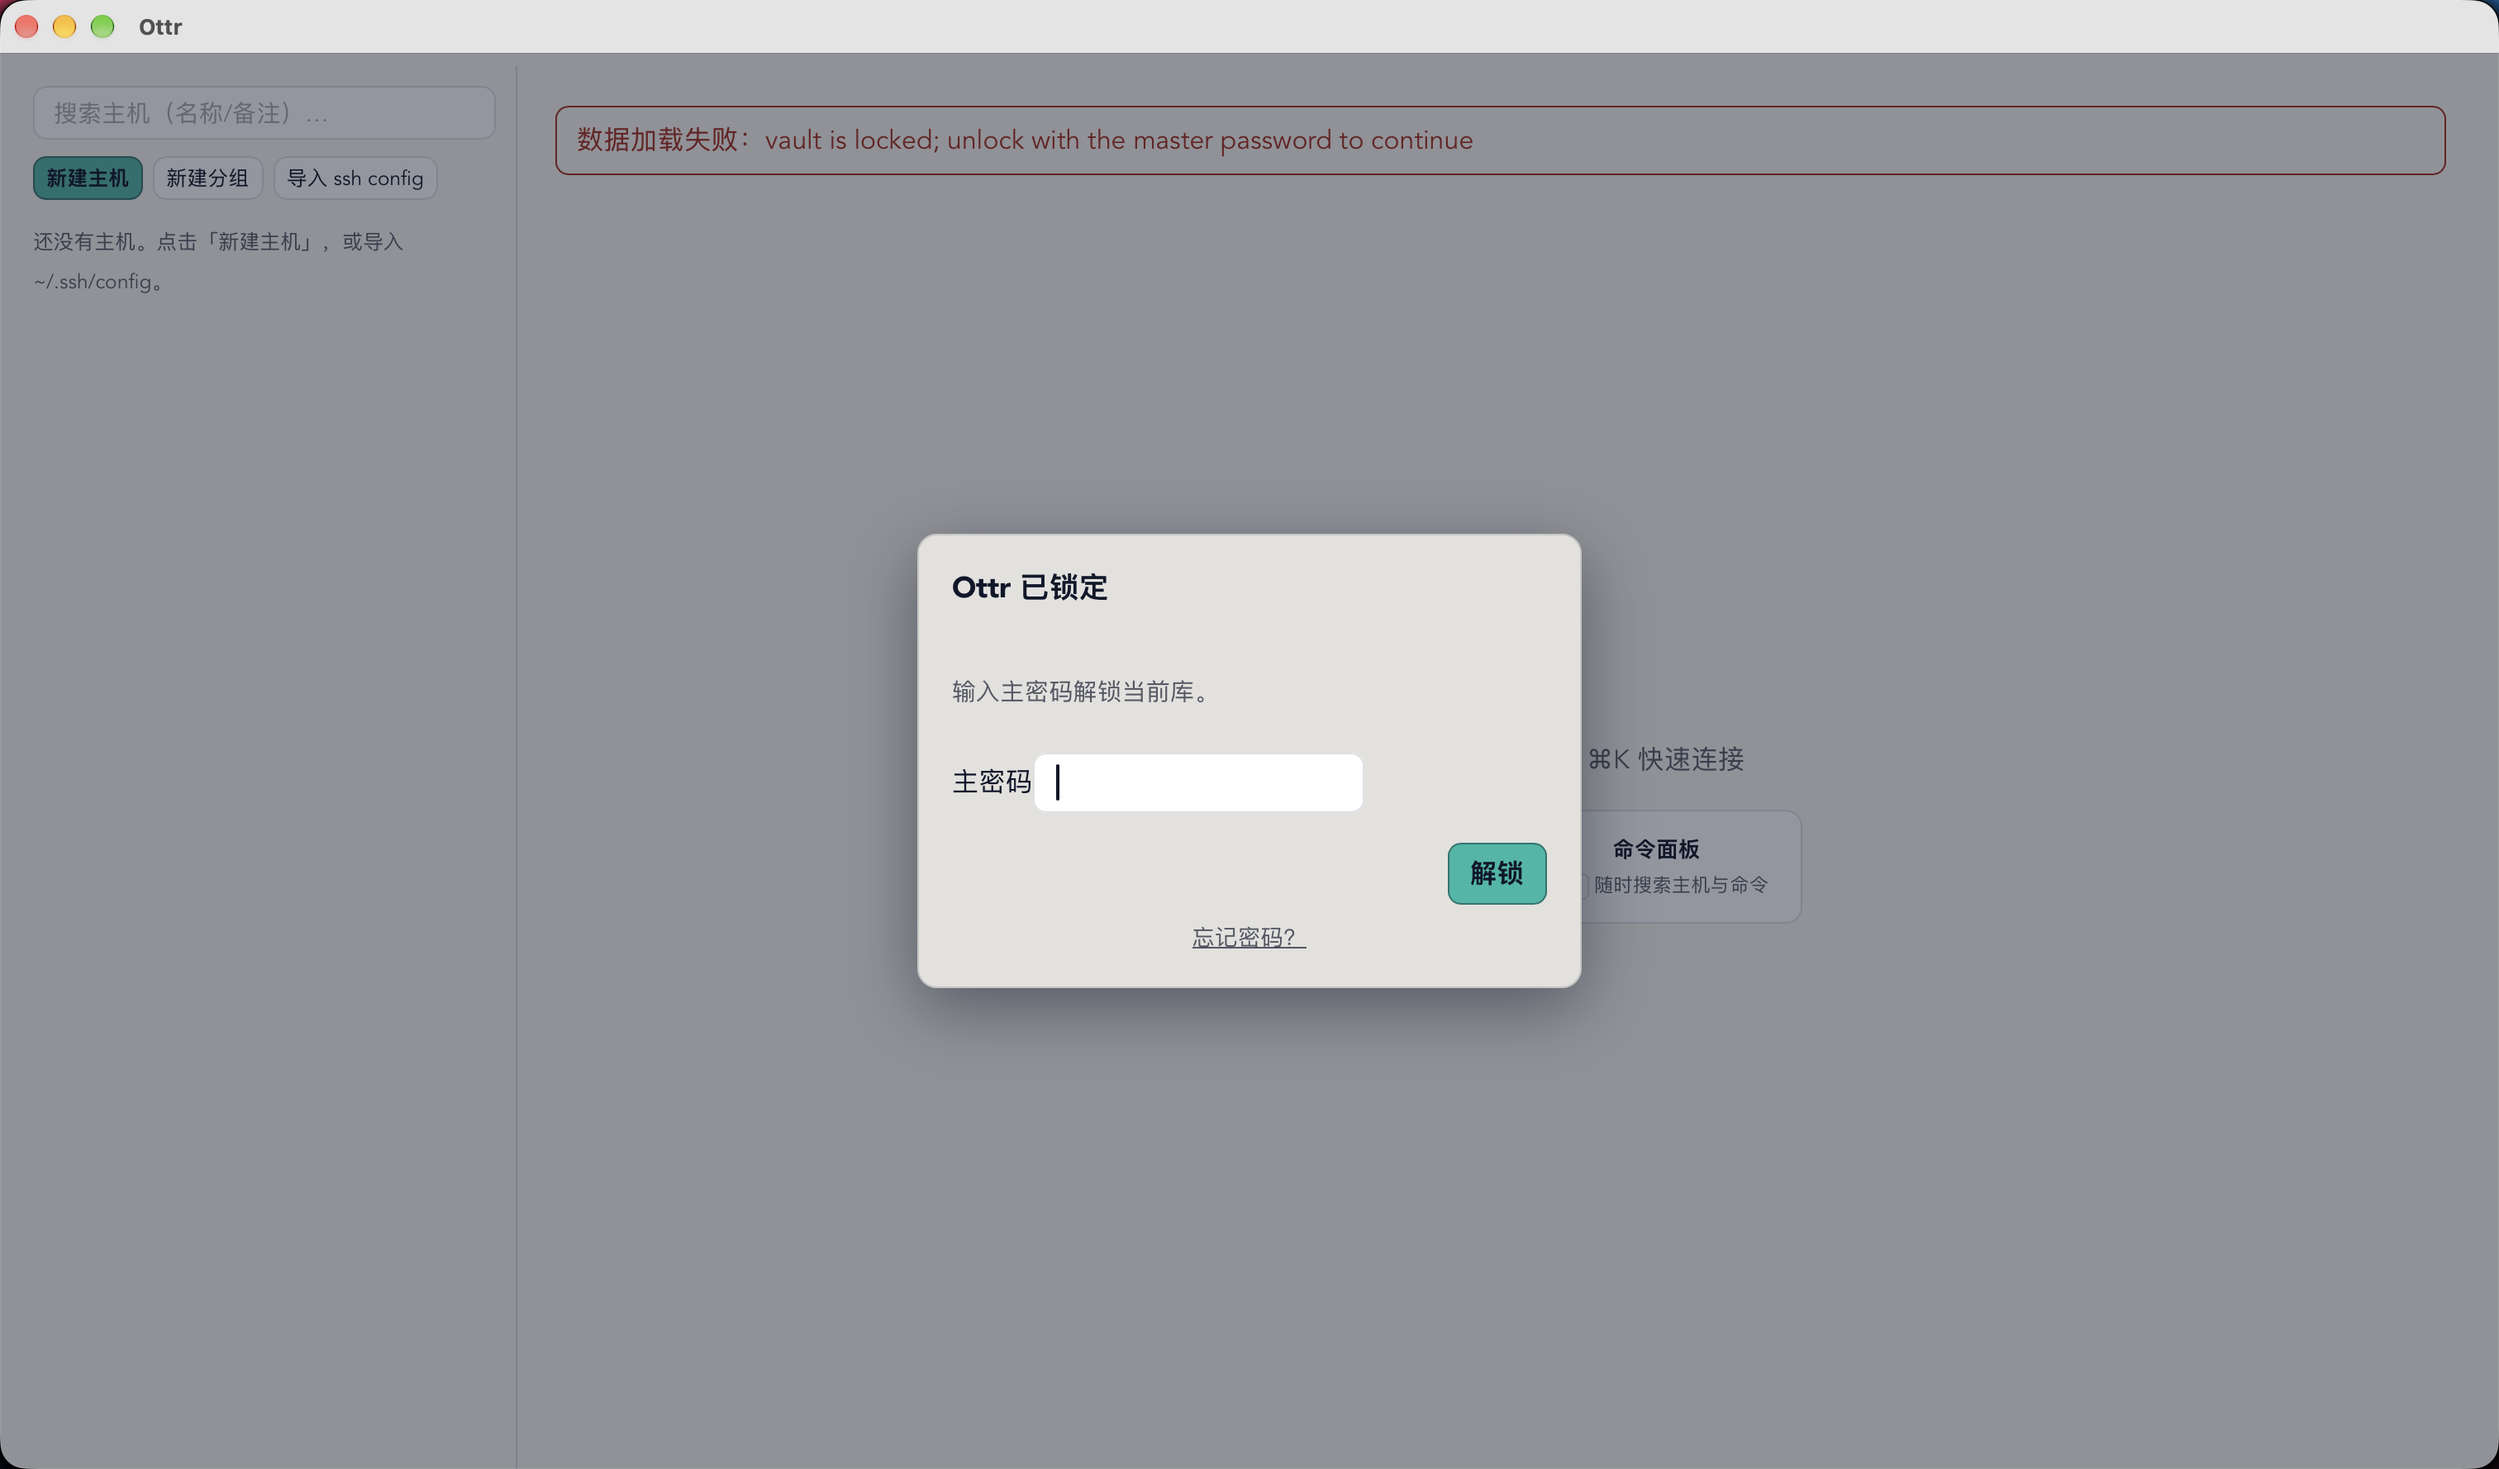
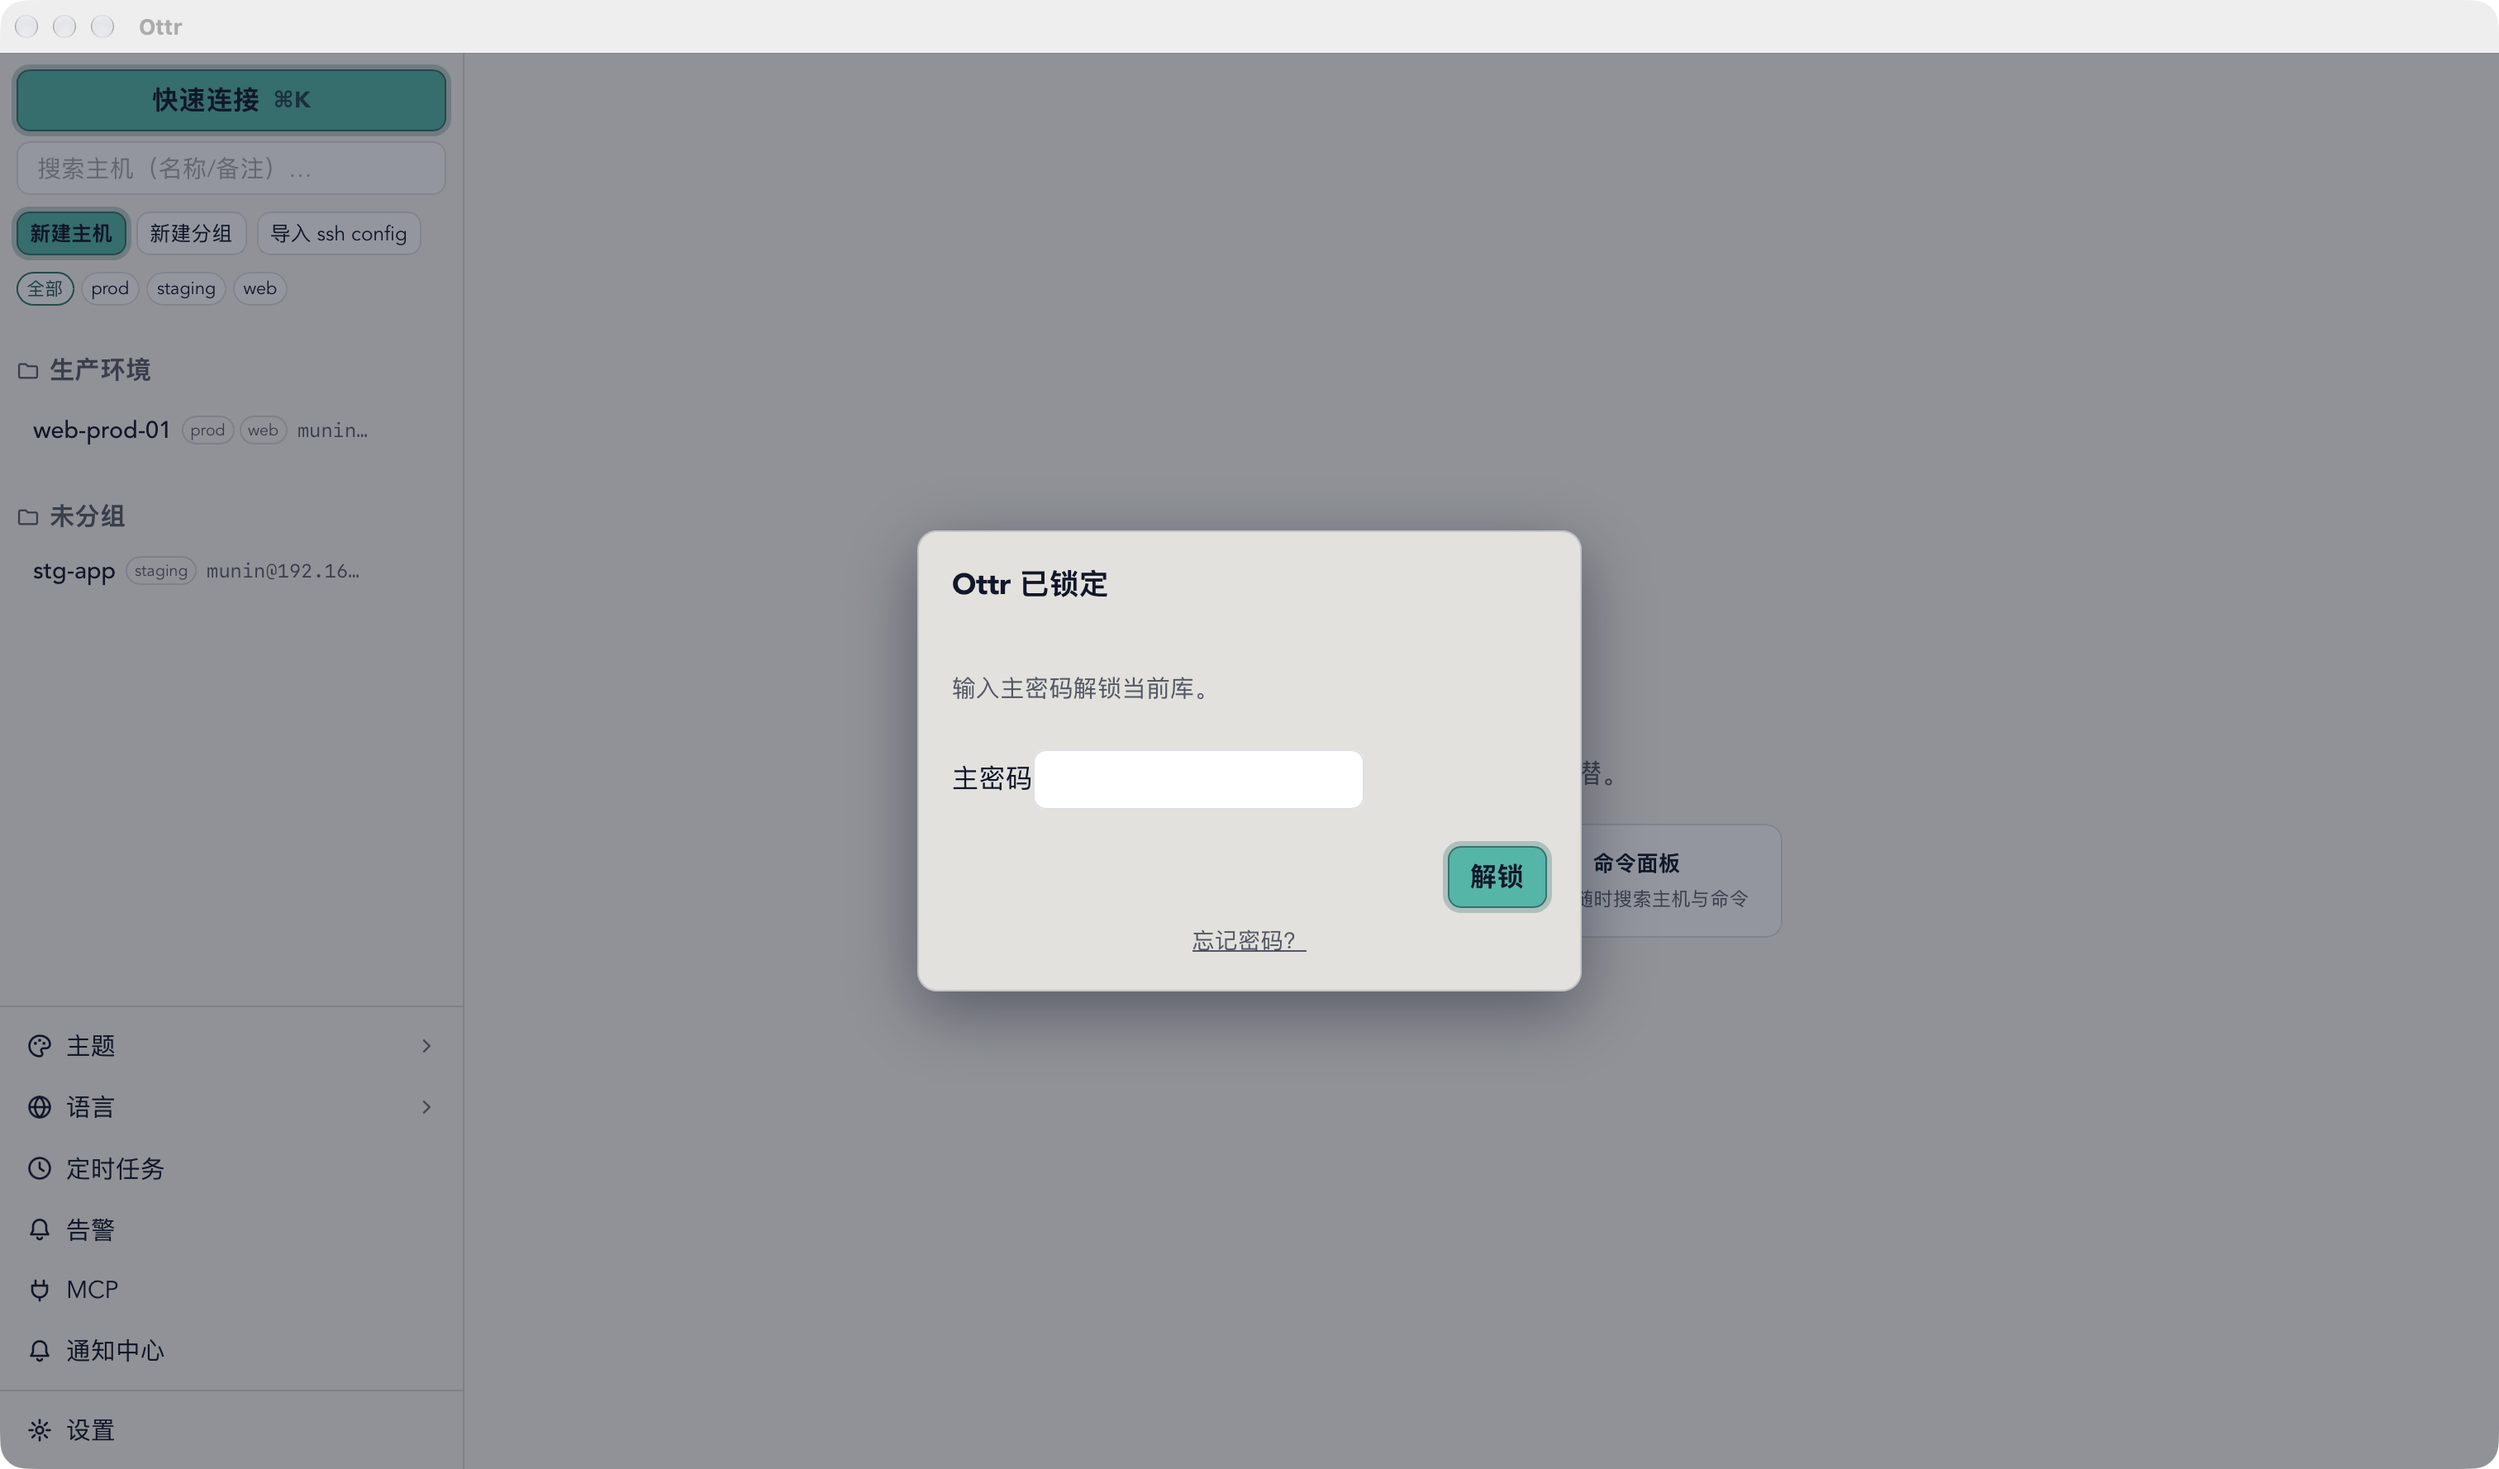
docs(readme): 全部配图重采对齐当前 UI（配图纪律）——命令面板/凭据对话框（含 0021 命名凭据「生产网关密钥」）/定时任务 dock/多主机总览/锁定屏五张经临时代码驱动面板打开后按窗口实拍（新侧栏背景），锁屏 store 驱动；过时的 ai-diagnose.png 移除（需真实 AI 会话，后续补采）；重采驱动临时代码已清理

diff --git a/README.md b/README.md
@@ -52,8 +52,6 @@
 - **BYOK 多服务商**：OpenAI 兼容（**OpenAI / DeepSeek / 智谱 GLM / 任意自建端点**）、Anthropic Claude、本地 Ollama——预设一键填端点，Key 加密存本机
 - **发送前脱敏**：主机名 / IP / 口令样式串自动替换为占位符；另内置 MCP 服务器，可接入 Claude Desktop 等宿主（主机级授权）
 
-![AI 诊断：真端点流式回答 + 脱敏提示](docs/screenshots/ai-diagnose.png)
-
 ### 监控 · 告警 · 运维
 
 - **免 Agent 监控**：CPU / 内存 / 磁盘 / 负载 / 网络实时曲线 + 进程浏览器，多主机总览
